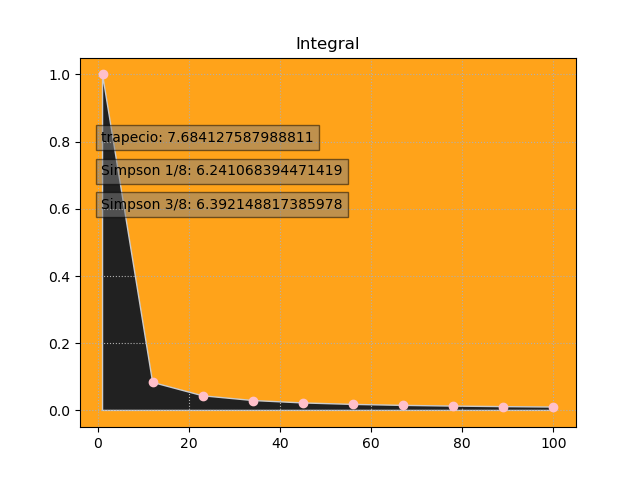
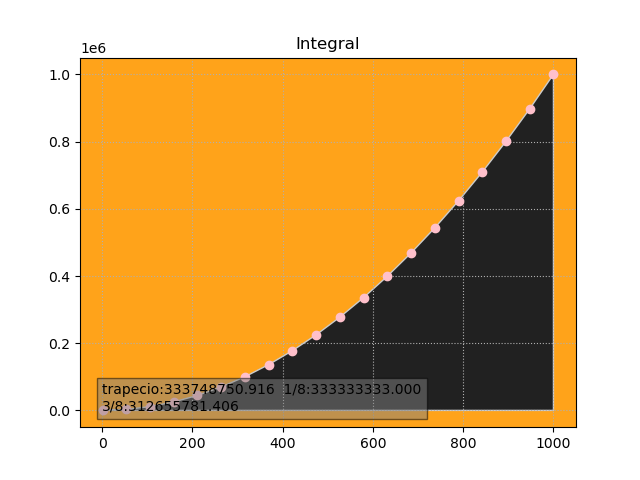
fixed ax.text overlap

diff --git a/main.py b/main.py
@@ -60,10 +60,10 @@ def f(xyz):
 
 
 def integral_plot(f, a, b, N):
-    text = f"trapecio:{trapz(f,a,b,N)}\n1/8:{simps(f,a,b,N)}\n3/8:{simps(f,a,b,N)}"
-    temptrap = float(trapz(f, a, b, N))
-    temp18 = float(simps(f, a, b, N))
-    temp38 = float(simpson38(f,a,b,N))
+    temptrap = "%.3f" %(float(trapz(f, a, b, N)))
+    temp18 =  "%.3f" %(float(simps(f, a, b, N)))
+    temp38 =  "%.3f" %(float(simpson38(f,a,b,N)))
+    text = f"trapecio:{temptrap}  1/8:{temp18}\n3/8:{temp38}"
     x = np.linspace(a, b, num=N)
     y = f(x)
     fig, ax = plt.subplots()
@@ -72,12 +72,9 @@ def integral_plot(f, a, b, N):
     plt.grid(True, linestyle=':')
     plt.title(f'Integral')
     plt.plot(legend=f'x:[{x}]')    # Make the shaded region
-    ax.text(.7, 0.8, f'trapecio: {temptrap}',
+    ax.text(.2, 0.9, f'{text}',
             bbox=dict(facecolor='#808080', alpha=0.5))
-    ax.text(.7, 0.7, f'Simpson 1/8: {temp18}',
-            bbox=dict(facecolor='#808080', alpha=0.5))
-    ax.text(.7, 0.6, f'Simpson 3/8: {temp38}',
-            bbox=dict(facecolor='#808080', alpha=0.5))
+
     ix = np.linspace(a, b, num=N)
     iy = f(ix)
     verts = [(a, 0), *zip(ix, iy), (b, 0)]
